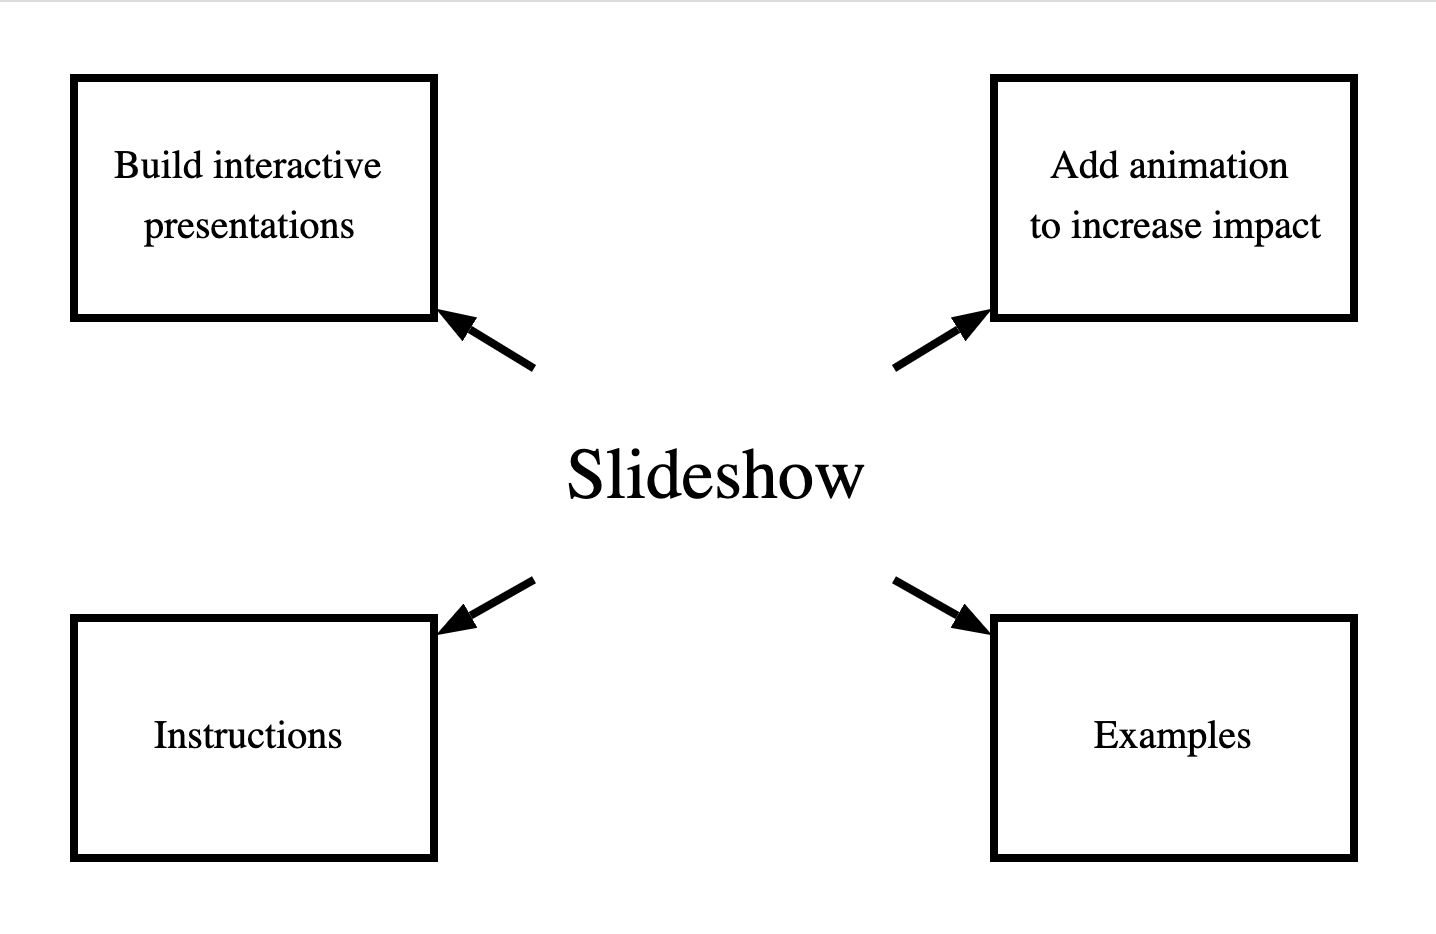
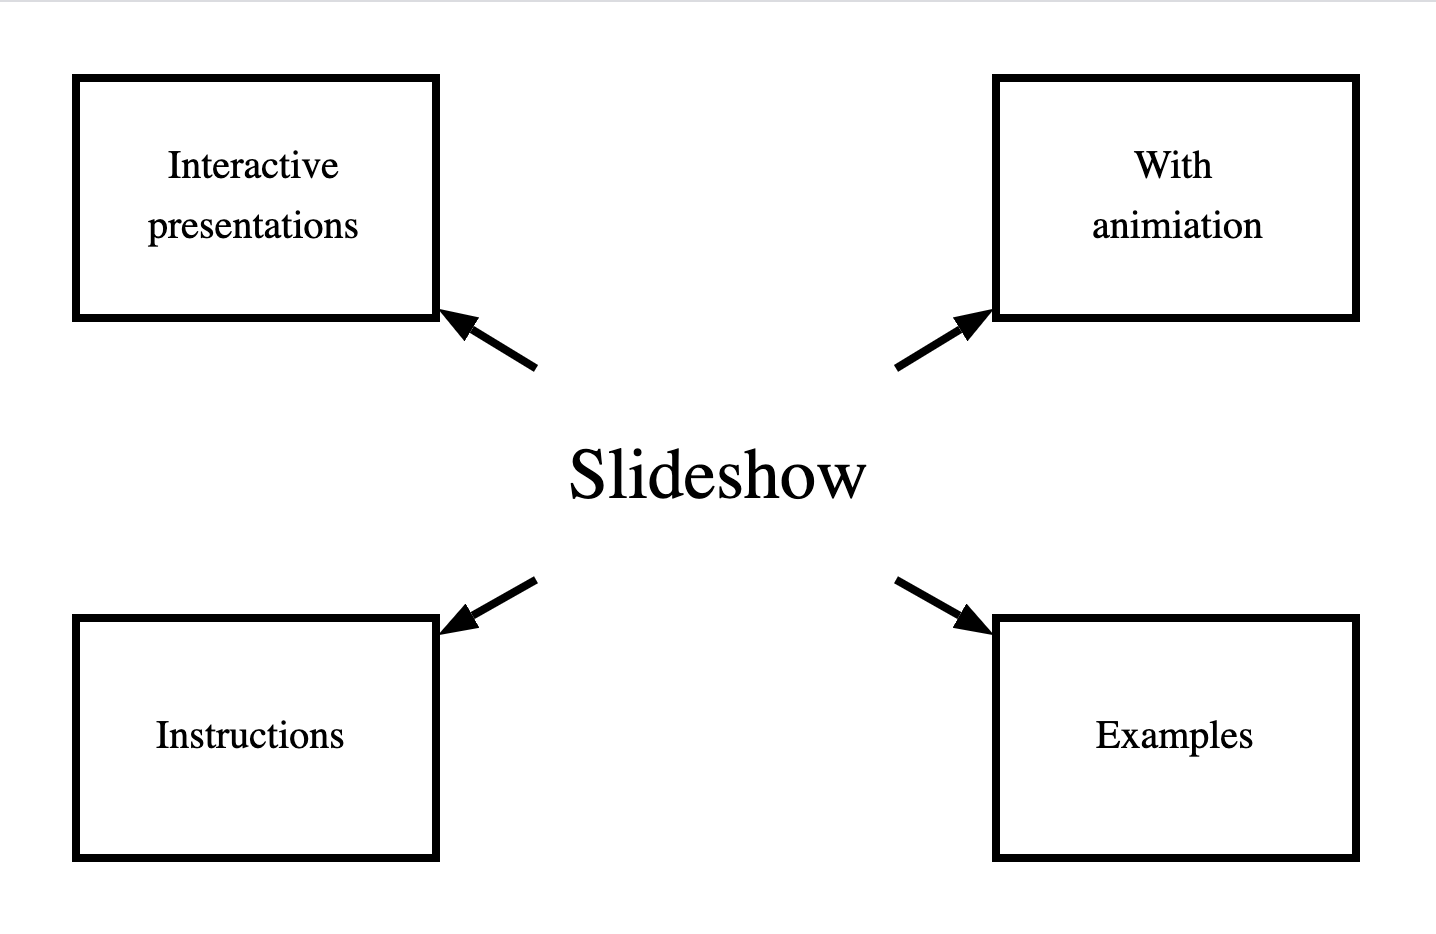
small updates to default slideshow
small updates to default slideshow

diff --git a/README.md b/README.md
@@ -1,6 +1,6 @@
 # Slideshow
 
-Build interactive presentations using animation to increase impact.
+Hobby project that builds interactive presentations with animation.
 
 <p  align="center">
     <img src="./images/slideshow.png" alt="Slideshow" width="50%" height="50%"/>
